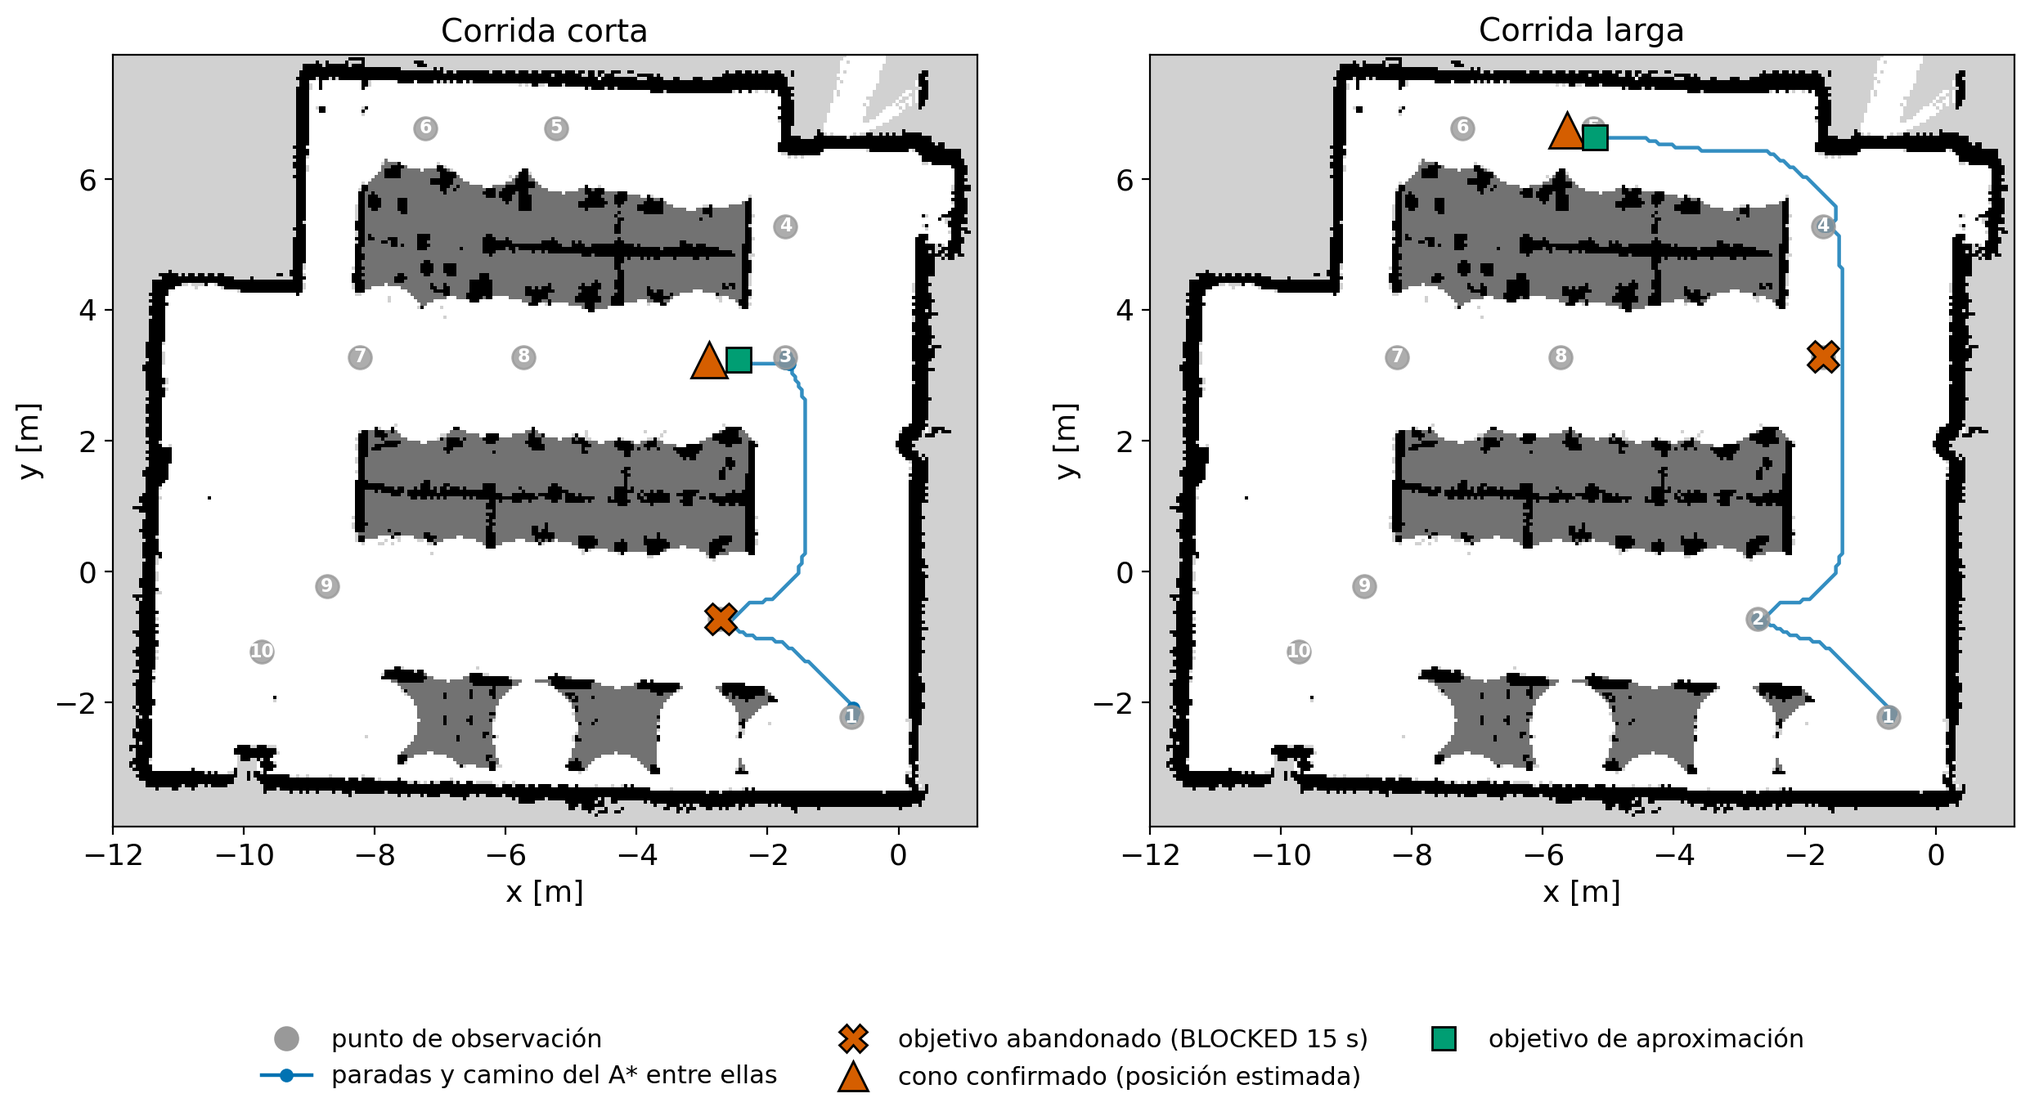
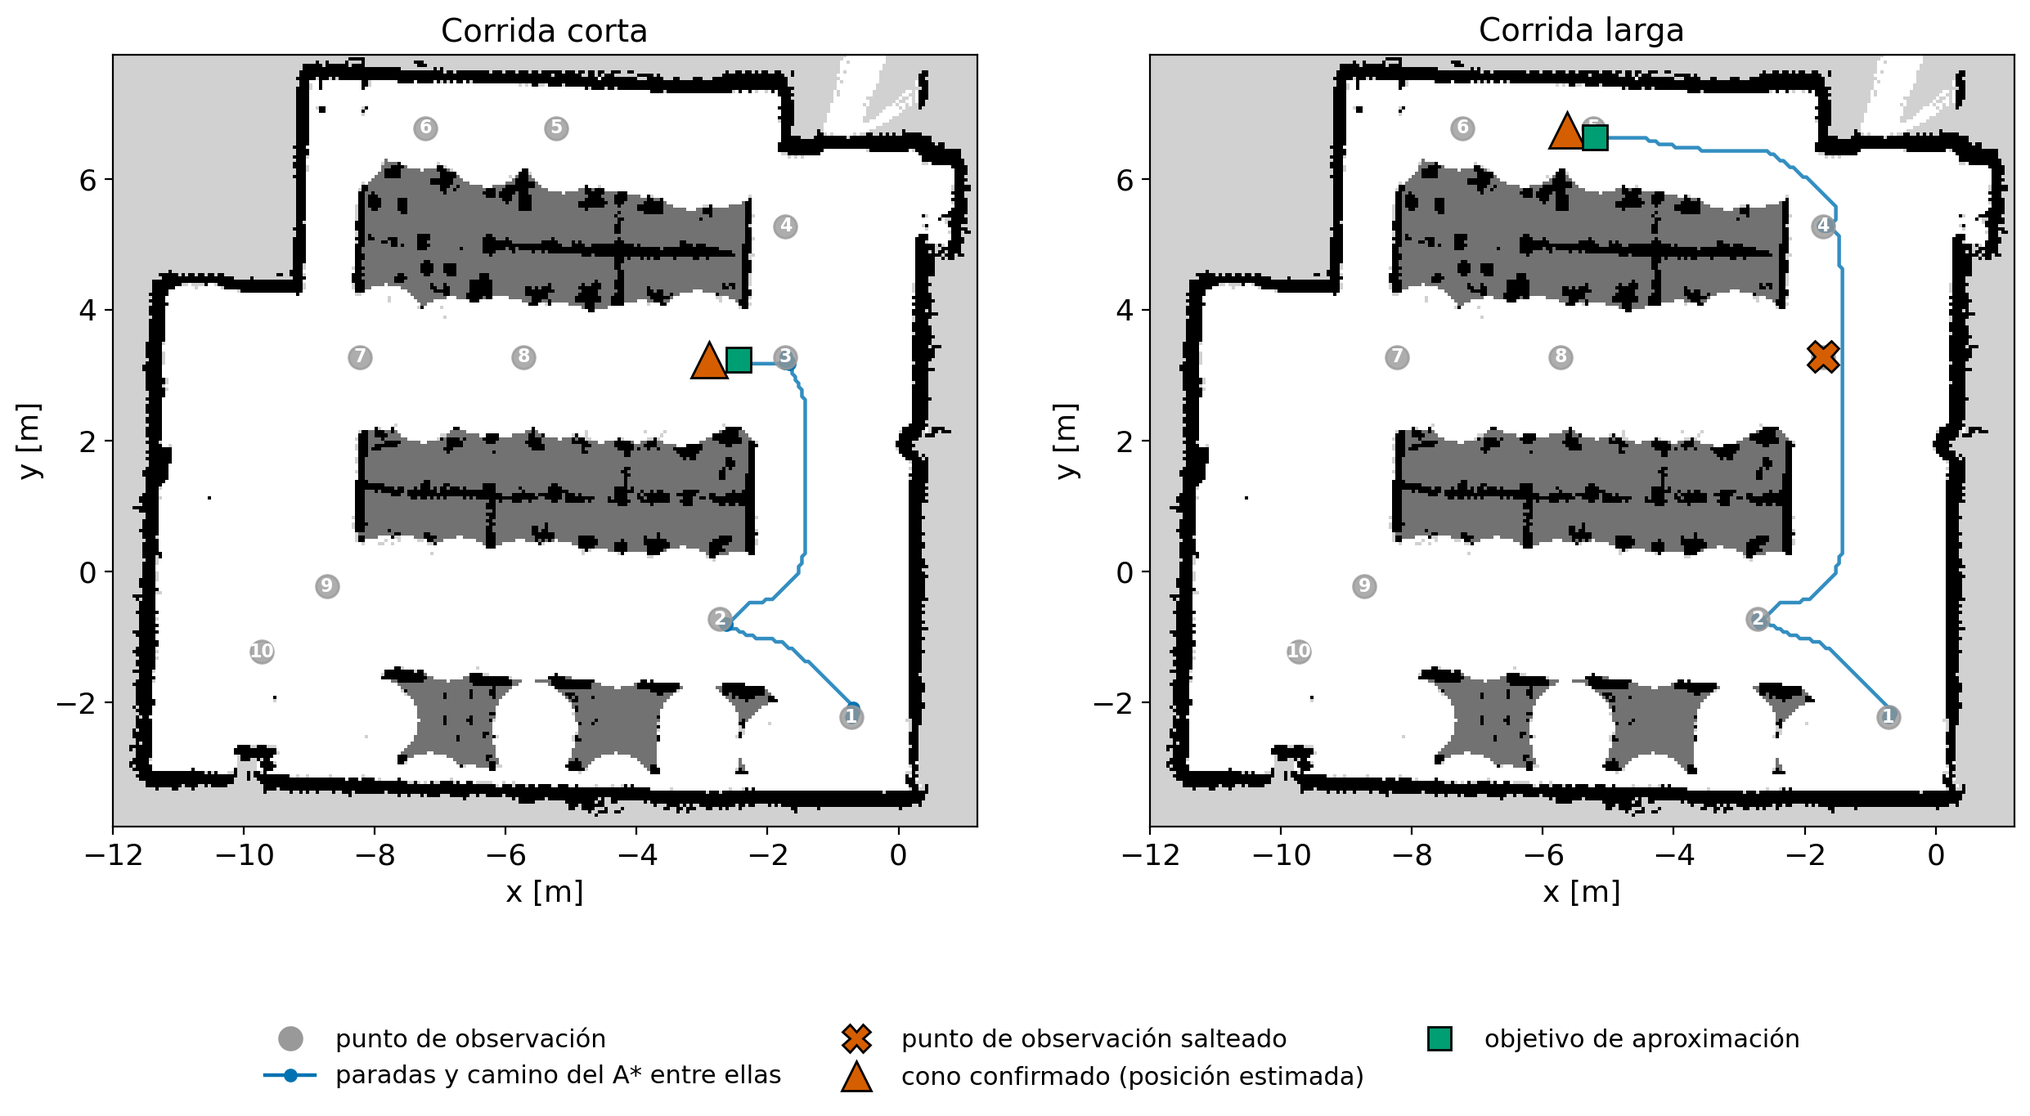
Clarify Part C method, simulation and lab results, and questions 1 to 3

Changed region(s): [[0.1551, 0.9231, 0.6825, 0.9846], [0.7135, 0.9231, 0.8997, 0.9538], [0.3413, 0.5231, 0.3723, 0.5846]]

diff --git a/informe/parte_c.tex b/informe/parte_c.tex
@@ -83,15 +83,14 @@ neuronal necesitaría imágenes etiquetadas del aula. La imagen pasa a HSV, que
 separa el tono del brillo, y nos quedamos con los píxeles de tono rojo, bien
 saturados y no muy oscuros. El naranja, el distractor más parecido, queda
 afuera. Después de limpiar la máscara con una apertura y un cierre
-morfológicos, cada mancha tiene que tener forma de cono: un área mínima, una
-proporción razonable, ser convexa y angostarse hacia arriba. Este último
-filtro es lo que separa un cono de una caja o una mochila roja.
+morfológicos, cada región roja de la máscara tiene que tener forma de cono: un área mínima, una
+proporción razonable, ser convexa y angostarse hacia arriba.
 
-\paragraph{Dónde está el cono.} La profundidad en la mitad central del recuadro de la
-mancha, tomada como mediana para no mezclar el fondo, da la distancia. Con la
-calibración de \code{camera\_info} el centro de la mancha pasa a un punto 3D
-de la cámara, y con TF al mapa. Con la distancia también medimos el tamaño
-real de la mancha y descartamos lo que no tiene tamaño de cono (entre 0,05 y
+\paragraph{Dónde está el cono.} Para medir la distancia al cono tomamos la
+mediana de la profundidad en el centro del recuadro de la detección. Con la
+calibración de la cámara (\code{camera\_info}), el centro de la detección y su
+distancia dan un punto 3D respecto de la cámara, y TF lo lleva al mapa. Con la
+distancia también medimos el tamaño real de la detección y descartamos lo que no tiene tamaño de cono (entre 0,05 y
 0,5 m de ancho y entre 0,1 y 0,7 m de alto). Una sola detección no alcanza:
 cada candidato tiene un filtro de Bayes binario en log-odds, igual que una
 celda de la grilla de ocupación de la parte A. Si el detector lo ve suma
@@ -101,32 +100,28 @@ $\log(0{,}30/0{,}95)$, que es negativo. Con probabilidad inicial de 0,2, dos
 detecciones lo llevan a 0,98 y se confirma al pasar 0,97. Dos detecciones a
 menos de 40 cm son el mismo cono, y su posición es el promedio.
 
-\paragraph{Dónde pararse.} No alcanza con que el cono se vea: a través de un
-hueco en una pared se ve, pero no se pasa. Buscamos la pose de aproximación en
-anillos alrededor del cono, cada 15 cm desde 0,45 hasta 1,5 m y en 24
-direcciones. Valen las poses alcanzables desde el robot desde las que podría
-avanzar en línea recta hasta el cono, con un corredor del ancho del robot
-libre en el mapa. Del lado equivocado de la pared ese corredor pasa por el
-hueco, que es más angosto que el robot, y queda descartado. Se usa el anillo
-más cercano que tenga alguna, y en él la de camino más corto; el ángulo mira
-al cono. El A* de la parte B, que recibe ese objetivo, rodea la pared solo.
-Las poses además tienen que estar, como los puntos de observación, a por lo
-menos 0,5 m del obstáculo más cercano, para no pararse entre bancos. Si
-ninguna lo cumple, como en una esquina, se buscan de nuevo sin esa condición.
-
-\paragraph{Cambio en la parte B.} Hicimos un solo cambio en el navegador.
-Para girar en el lugar, la misión manda un objetivo en la posición actual. El
-navegador pasaba por \code{ALIGNING} hacia un camino de largo cero, cuya
-dirección sale del error de milímetros de la pose, y el robot giraba hacia
-cualquier lado antes del giro pedido. Ahora, si el objetivo está dentro de la
-tolerancia de posición, pasa directo al giro final.
+\paragraph{Dónde pararse.} No alcanza con que el cono se vea: puede verse a
+través de un hueco por el que el robot no pasa. Por eso la misión no manda al
+robot al cono, sino a una pose de aproximación. Buscamos esa pose alrededor
+del cono, a no menos de 0,45 m ni más de 1,5 m. Una pose sirve si el robot
+puede llegar a ella y, desde ahí, avanzar en línea recta hasta el cono sin
+chocar con nada del mapa. Si entre una pose y el cono hay una pared con un
+hueco, ese avance pasa por el hueco, que es más angosto que el robot, y la
+pose se descarta: solo quedan las del lado del cono. Entre ellas elegimos la
+más cercana al cono y, a igual distancia, la de camino más corto. El robot
+queda mirando al cono, y el A* de la parte B se encarga de llevarlo hasta ahí
+rodeando la pared. Como los puntos de observación, la pose tiene que estar a
+por lo menos 0,5 m de los obstáculos; si no hay ninguna así, como en una
+esquina, se acepta una más cerca de ellos.
 
 \subsection{Validación en simulación}
 
 Antes del robot probamos la misión en Gazebo, en una réplica del laboratorio
 generada desde el mapa: cada obstáculo del mapa es una caja y los conos son
-cilindros escalonados de 30 cm. Armamos cuatro escenarios, cada uno con un
-caso de la consigna (tabla~\ref{tab:gazebo}). La cámara simulada no es la del
+cilindros escalonados de 30 cm. Armamos cuatro escenarios (tabla~\ref{tab:gazebo}):
+los dos casos de la consigna, distractores de otros colores y un cono detrás
+de un hueco, y dos propios, un cono en el camino del robot y otro en una
+esquina lejana, que obliga a recorrer casi toda el aula. La cámara simulada no es la del
 robot: mide profundidad solo hasta 1,5 m, así que el plan simulado tiene 22
 puntos en lugar de 10 y las corridas son más largas.
 
@@ -151,18 +146,19 @@ puntos en lugar de 10 y las corridas son más largas.
   \end{tabular}
 \end{table}
 
-Los cuatro terminaron en \code{DONE}, pero solo después de corregir lo que
-cada uno mostró. En el escenario del hueco el robot vio el cono a través de
-la abertura, rodeó la pared y se detuvo del lado del cono
-(figura~\ref{fig:hueco}). En el primer intento se quedaba bloqueado al
-llegar: con la aproximación a 0,45 m el borde del cono caía dentro de la
-parada de seguridad de la simulación, de 0,40 m. En el de la esquina la
-misión confirmó el cono tras recorrer casi toda el aula y lo abandonó como
-inalcanzable, porque ninguna pose quedaba a 0,5 m de las dos paredes: de ahí
-salió la búsqueda sin esa distancia mínima. Y con el cono justo sobre un punto de
-observación, el robot no lo chocó, porque el LIDAR lo vio como obstáculo y el
-navegador abandonó el objetivo, pero tampoco lo encontró: desde el punto
-anterior quedaba a 2 m, fuera del alcance de la cámara simulada.
+Los cuatro terminaron en \code{DONE}. En el escenario del hueco el robot vio
+el cono a través de la abertura, rodeó la pared y se detuvo del lado del cono
+(figura~\ref{fig:hueco}). El de la esquina motivó un cambio en la misión. El cono estaba a unos 0,5 m
+de dos paredes y, con la condición de detenerse a por lo menos 0,5 m de
+cualquier obstáculo, no quedaba ninguna pose válida: la misión lo confirmó y
+lo descartó como inalcanzable, aunque el robot podía llegar. Ahora, si ninguna
+pose cumple esa condición, la búsqueda se repite sin ella.
+
+También probamos un cono justo sobre un punto de observación. El robot no lo
+chocó, porque el LIDAR lo detectó como obstáculo y el navegador abandonó ese
+punto, pero tampoco lo encontró: desde el punto anterior quedaba a 2 m, más
+lejos de lo que mide la profundidad simulada. Con el cono en el camino entre
+los dos puntos, el escenario de la tabla, lo encontró en 25 s.
 
 \begin{figure}[t]
   \centering
@@ -170,8 +166,8 @@ anterior quedaba a 2 m, fuera del alcance de la cámara simulada.
   \caption{Escenario del hueco en Gazebo, en RViz. Arriba a la derecha, la
     pared agregada (en rojo, como la ve el LIDAR) con un hueco de 15 cm, y el
     cono confirmado detrás (punto verde). El robot lo vio por el hueco desde
-    abajo; el camino naranja de la parte B rodea las mesas y entra por
-    arriba.}
+    abajo; el camino naranja de la parte B rodea las mesas y llega por el lado
+    del cono.}
   \label{fig:hueco}
 \end{figure}
 
@@ -183,8 +179,9 @@ la cámara, manejando el robot alrededor de conos rojos y azules, y pasamos las
 la odometría en lugar del mapa (figuras~\ref{fig:deteccion}
 y~\ref{fig:bag}). Como el cono no se mueve, si sus posiciones medidas desde
 distintos lugares quedan juntas la cadena completa funciona: detector,
-profundidad, calibración y montaje de la cámara. Las tres posiciones donde
-estuvo el cono reúnen entre 53 y 90 mediciones cada una, a entre 0,6 y 2,7 m,
+profundidad, calibración y montaje de la cámara. Usamos dos conos, y
+uno cambió de lugar durante la grabación: las tres posiciones reúnen entre 53
+y 90 mediciones cada una, tomadas desde 0,6 hasta 2,7 m,
 con una dispersión mediana de 2 a 6 cm. De las 260 detecciones, ninguna cayó
 sobre un cono azul. No hay medida con cinta de la posición de los conos, así
 que esto mide consistencia y no exactitud.
@@ -203,8 +200,8 @@ que esto mide consistencia y no exactitud.
   \centering
   \includegraphics[width=0.92\textwidth]{c_bag}
   \caption{Rosbag de la cámara en el laboratorio. Izquierda: posición de cada
-    detección en el frame de la odometría; cada grupo es un lugar donde estuvo
-    el cono, con su dispersión mediana. Derecha: alto medido del cono según la
+    detección en la terna de la odometría; cada grupo es un lugar donde estuvo
+    un cono, con su dispersión mediana. Derecha: alto medido del cono según la
     distancia. De lejos la máscara pierde la punta del cono y lo mide más
     bajo.}
   \label{fig:bag}
@@ -227,7 +224,7 @@ inicial. En cada una hubo un solo candidato, el rojo, que se confirmó en
     & Corta & Larga \\
     \midrule
     Puntos visitados antes del cono & 3 & 4 \\
-    Puntos abandonados (\code{BLOCKED}) & 1 & 1 \\
+    Puntos salteados & 0 & 1 \\
     Candidato a confirmado [s] & 2,1 & 2,1 \\
     Llegada [cm] & 10 & 7 \\
     Llegada [\textdegree] & $-1{,}8$ & $-1{,}0$ \\
@@ -242,17 +239,16 @@ inicial. En cada una hubo un solo candidato, el rojo, que se confirmó en
   \caption{Las dos corridas en el laboratorio, reconstruidas del log de la
     misión. No guardamos la trayectoria: los puntos azules son los objetivos
     que el robot alcanzó y la línea es el camino que planifica la parte B entre
-    ellos. En cada corrida un punto de observación quedó bloqueado 15 s y la
-    misión siguió con el siguiente.}
+    ellos. En la corrida larga un punto de observación quedó bloqueado y la
+    misión lo salteó.}
   \label{fig:corridas}
 \end{figure*}
 
-En las dos corridas un punto de observación quedó bloqueado: la parada de
-seguridad de la parte B detectó algo a menos de 25 cm por delante, el
-navegador esperó 15 s y abandonó el objetivo, y la misión siguió con el
-siguiente. En la corrida larga, además, el primer intento de pose inicial se
-rechazó porque el 44 \% del scan quedaba lejos de las paredes del mapa; el
-segundo convergió en 2 iteraciones. Pasó igual en la corta.
+En la corrida larga, uno de los conos azules quedó justo sobre un punto de
+observación: la parada de seguridad de la parte B frenó al robot, el navegador
+esperó 15 s y abandonó el objetivo, y la misión siguió con el siguiente sin
+tomar al cono azul como candidato. En la corta, el avance hacia un punto también se frenó, pero a
+11 cm de él: dentro de la tolerancia, así que la misión lo dio por alcanzado.
 
 \subsection{Preguntas}
 
@@ -264,13 +260,14 @@ la ventana a contraluz en todo el rosbag. Las dificultades aparecieron al
 combinar el color con la profundidad, y dos de ellas producían falsos
 negativos que solo vimos con datos reales.
 
-La primera es que, con el cono muy cerca, la cámara no da su distancia. Con el
-mínimo de la misión en 0,3 m, al acercarse el robot cada imagen sin profundidad contaba
-como ``el cono estaba a la vista y no lo vi'', y un cono ya confirmado con 91
-detecciones terminó descartado por el filtro de Bayes. En la misión eso habría
-pasado justo durante la aproximación. Con el mínimo en 0,6 m, el que indica la
-cátedra para esta cámara, esas imágenes no cuentan y los tres conos del rosbag
-quedan confirmados. La segunda es el
+La primera es que, con el cono muy cerca, la cámara no da su distancia. Con la
+distancia mínima a la que la misión usa la profundidad en 0,3 m, al acercarse
+el robot, cada imagen sin profundidad contaba
+en el filtro de Bayes como una ausencia del cono, aunque estuviera a la vista,
+y un cono ya confirmado con 91 detecciones terminó descartado. En la misión eso habría
+pasado justo durante la aproximación. Con ese mínimo en 0,6 m, el que indica la
+cátedra para esta cámara, esas imágenes no cuentan y los conos de las tres
+posiciones del rosbag quedan confirmados. La segunda es el
 tamaño: de lejos la máscara pierde la punta del cono, que ocupa pocos
 píxeles, y lo mide más bajo y más angosto (figura~\ref{fig:bag}). El cono
 mide 0,28 m de alto con cinta; la mediana medida es 0,28 m a 0,7 m de
@@ -281,20 +278,15 @@ rosbag.
 
 Contra los falsos positivos usamos varios filtros en cadena. El color en HSV con
 saturación y brillo mínimos elimina casi todo el fondo. Los filtros de forma,
-sobre todo el angostamiento, descartan objetos rojos que no son conos. El
-tamaño real medido con la profundidad descarta manchas con forma de cono pero
+sobre todo el de angostamiento hacia arriba, descartan objetos rojos que no
+son conos. El
+tamaño real medido con la profundidad descarta detecciones con forma de cono pero
 de otro tamaño: en el rosbag rechazó 12 detecciones de conos a menos de
 0,6 m, donde la mediana tomaba la pared del fondo y el cono daba entre 0,85 y
 2 m de alto. Y el filtro de Bayes exige al menos dos detecciones en el mismo
 lugar antes de mover el robot. Contra los falsos negativos, el filtro solo
 cuenta una ausencia cuando el cono debería verse: en el campo de visión, a
 una distancia que la cámara mide y sin pared en medio.
-
-No pudimos probar el distractor más difícil, un cono naranja, porque no había
-en el laboratorio. En Gazebo se ignoró, pero la luz del simulador no es la
-real, y el límite de tono entre rojo y naranja es el punto más frágil del
-detector: el rojo que aceptamos y el naranja quedan separados por apenas dos
-unidades en una escala de tono de 180.
 
 \subsubsection*{2. \textquestiondown{}Qué componente del sistema resultó ser el principal limitante para lograr una navegación robusta en el entorno real: percepción, localización, planificación o control? \textquestiondown{}Cómo lo determinaron experimentalmente?}
 
@@ -312,7 +304,7 @@ distintas configuraciones:
   \item Bajando la frecuencia de la cámara a 3 Hz en el propio robot, el
     rosbag grabado ahí salió completo. Pero con la misión corriendo, el
     \code{/scan} llegaba a la PC a 1,1--1,7 Hz en lugar de 7. El navegador
-    corta el movimiento si pasa más de un tiempo sin scan, así que cancelaba
+    corta el movimiento si pasa más de 0,5 s sin un scan, así que cancelaba
     cada objetivo, y la misión salteó los 10 puntos en 37 s.
   \item Con la cámara a 0,5 Hz, el scan llegó a 7,2 Hz con un hueco máximo de
     0,17 s y las dos corridas salieron completas.
@@ -320,12 +312,9 @@ distintas configuraciones:
 
 Con 0,5 Hz la percepción podría haber pasado a ser el limitante, porque ve
 menos imágenes, pero no lo fue: dos detecciones alcanzan para confirmar un
-cono, así que se confirmó en 2,1 s en las dos corridas. Lo que quedó después
-fue la planificación sobre un aula que no es la del mapa: en cada corrida un
-punto de observación quedó bloqueado por algo a menos de 25 cm del frente del
-robot, y el robot lo abandonó a los 15 s. La misión lo tolera porque saltea
-el punto, y parte del piso que mostraba se ve desde los vecinos o en el
-camino. El control no
+cono, así que se confirmó en 2,1 s en las dos corridas. La planificación tampoco: cuando un cono azul
+quedó sobre un punto de observación, el robot no lo chocó, la misión salteó
+el punto y siguió buscando. El control no
 limitó: el robot llegó a 7--10 cm y a menos de 2\textdegree{} de cada objetivo
 de aproximación.
 
@@ -351,10 +340,10 @@ los conos. En las dos corridas el robot encontró el cono en el tercer y
 cuarto punto, en poco más de 2 minutos, y en Gazebo encontró uno ubicado
 cerca del último punto después de recorrer casi toda el aula.
 
-La estrategia tiene límites. Debajo de las mesas no se busca. El plan no se
-adapta si el aula cambió respecto del mapa: un punto bloqueado se saltea, sin
-buscar otro lugar desde donde ver lo mismo. Y un cono puesto justo sobre un
-punto de observación puede no encontrarse si desde los vecinos queda fuera
-del alcance de la cámara, como vimos en Gazebo.
+La estrategia tiene límites. Debajo de las mesas no se busca. Si un obstáculo
+ocupa un punto de observación, el punto se saltea, sin buscar otro lugar
+desde donde ver lo mismo. Y un cono puesto justo sobre un
+punto de observación puede no encontrarse si desde los puntos vecinos queda
+fuera del alcance de la cámara, como pasó en Gazebo.
 
 \FloatBarrier

diff --git a/informe/scripts/figuras_c.py b/informe/scripts/figuras_c.py
@@ -109,7 +109,7 @@ def figure_plan(original, grid, nav_costmap, plan):
 def parse_run(log_path):
     """Paradas del robot, punto salteado, cono y objetivo de aproximación según el log de la misión."""
     goal = re.compile(r'\[navigator\]: goal \((-?[\d.]+), (-?[\d.]+), (-?[\d.]+) deg\)')
-    events = {'stops': [], 'dropped': [], 'cone': None, 'approach': None, 'candidate': None}
+    events = {'stops': [], 'skipped': [], 'cone': None, 'approach': None, 'candidate': None}
     last_goal = None
     for line in log_path.read_text(errors='replace').splitlines():
         m = goal.search(line)
@@ -117,8 +117,11 @@ def parse_run(log_path):
             last_goal = (float(m.group(1)), float(m.group(2)))
         elif '[navigator]: goal reached' in line and last_goal is not None:
             events['stops'].append(last_goal)
-        elif 'goal dropped' in line and last_goal is not None:
-            events['dropped'].append(last_goal)
+        elif 'not reached, skipped' in line:
+            # Solo los puntos que la misión salteó. Si el navegador abandona un objetivo
+            # pero el robot quedó dentro de la tolerancia, la misión lo da por alcanzado.
+            x, y = re.search(r'viewpoint \((-?[\d.]+), (-?[\d.]+)\)', line).groups()
+            events['skipped'].append((float(x), float(y)))
         elif 'red candidate at' in line:
             x, y = re.search(r'at \((-?[\d.]+), (-?[\d.]+)\)', line).groups()
             events['candidate'] = (float(x), float(y))
@@ -151,7 +154,7 @@ def figure_runs(original, grid, nav_costmap, plan):
             ax.plot(segment[:, 0], segment[:, 1], '-', color=BLUE, lw=1.6, alpha=0.8)
         stops = np.array(stops)
         ax.plot(stops[:, 0], stops[:, 1], 'o', color=BLUE, markersize=5)
-        for x, y in run['dropped']:
+        for x, y in run['skipped']:
             ax.plot(x, y, 'X', color=VERMILION, markersize=14, markeredgecolor='black', zorder=6)
         ax.plot(*run['cone'], '^', color=VERMILION, markersize=16, markeredgecolor='black', zorder=6)
         ax.plot(*run['approach'], 's', color=GREEN, markersize=11, markeredgecolor='black', zorder=6)
@@ -160,7 +163,7 @@ def figure_runs(original, grid, nav_costmap, plan):
                plt.Line2D([], [], color=BLUE, marker='o', lw=1.6, markersize=5,
                           label='paradas y camino del A* entre ellas'),
                plt.Line2D([], [], color=VERMILION, marker='X', ls='', markersize=12, markeredgecolor='black',
-                          label='objetivo abandonado (BLOCKED 15 s)'),
+                          label='punto de observación salteado'),
                plt.Line2D([], [], color=VERMILION, marker='^', ls='', markersize=13, markeredgecolor='black',
                           label='cono confirmado (posición estimada)'),
                plt.Line2D([], [], color=GREEN, marker='s', ls='', markersize=10, markeredgecolor='black',
